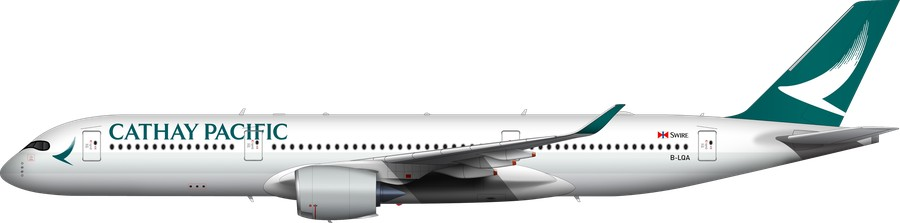
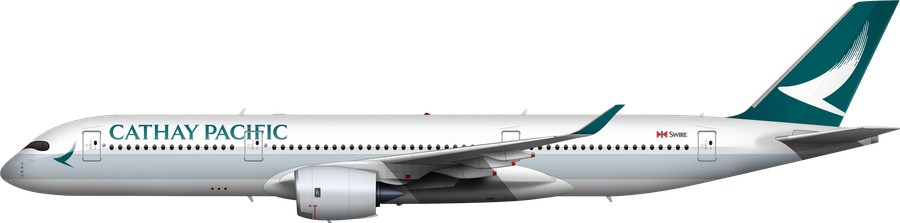
update overview

diff --git a/index.html b/index.html
@@ -103,7 +103,7 @@ button{font-family:inherit}.bar button{border:1px solid #bbb;background:#fff;bor
 <div class="card" data-key="Standard/Cathay Pacific/Cathay Pacific - 777-300ER" data-name="Cathay Pacific 777-300ER" data-png="Liveries Done/Standard/Cathay Pacific/Cathay Pacific - 777-300ER/Cathay Pacific_777-300ER.png" data-base="{&quot;status&quot;: &quot;要處理&quot;, &quot;reason&quot;: &quot;gloss&quot;, &quot;author&quot;: &quot;我們&quot;, &quot;note&quot;: &quot;&quot;}"><img loading="lazy" src="_work/overview_thumbs900/a1d24ef013ee.jpg?v=1794919037"><div class="t">777-300ER</div><span class="b"></span><span class="m r"></span><div class="m a"></div></div>
 <div class="card" data-key="Standard/Cathay Pacific/Cathay Pacific - A330-300" data-name="Cathay Pacific A330-300" data-png="Liveries Done/Standard/Cathay Pacific/Cathay Pacific - A330-300/Cathay Pacific_A330-300.png" data-base="{&quot;status&quot;: &quot;要處理&quot;, &quot;reason&quot;: &quot;gloss&quot;, &quot;author&quot;: &quot;我們&quot;, &quot;note&quot;: &quot;&quot;}"><img loading="lazy" src="_work/overview_thumbs900/b9b2e20d1982.jpg?v=1794919037"><div class="t">A330-300</div><span class="b"></span><span class="m r"></span><div class="m a"></div></div>
 <div class="card" data-key="Standard/Cathay Pacific/Cathay Pacific - A350-1000" data-name="Cathay Pacific A350-1000" data-png="Liveries Done/Standard/Cathay Pacific/Cathay Pacific - A350-1000/Cathay Pacific_A350-1000.png" data-base="{&quot;status&quot;: &quot;要處理&quot;, &quot;reason&quot;: &quot;gloss&quot;, &quot;author&quot;: &quot;我們&quot;, &quot;note&quot;: &quot;&quot;}"><img loading="lazy" src="_work/overview_thumbs900/2898176b7e99.jpg?v=1794919037"><div class="t">A350-1000</div><span class="b"></span><span class="m r"></span><div class="m a"></div></div>
-<div class="card" data-key="Standard/Cathay Pacific/Cathay Pacific - A350-900" data-name="Cathay Pacific A350-900" data-png="Liveries Done/Standard/Cathay Pacific/Cathay Pacific - A350-900/Cathay Pacific_A350-900 (Martin Original).png" data-base="{&quot;status&quot;: &quot;要處理&quot;, &quot;reason&quot;: &quot;gloss&quot;, &quot;author&quot;: &quot;Martin&quot;, &quot;note&quot;: &quot;&quot;}"><img loading="lazy" src="_work/overview_thumbs900/8a0ac4ed2e99.jpg?v=1794734159"><div class="t">A350-900</div><span class="b"></span><span class="m r"></span><div class="m a"></div></div>
+<div class="card" data-key="Standard/Cathay Pacific/Cathay Pacific - A350-900" data-name="Cathay Pacific A350-900" data-png="Liveries Done/Standard/Cathay Pacific/Cathay Pacific - A350-900/Cathay Pacific_A350-900.png" data-base="{&quot;status&quot;: &quot;要處理&quot;, &quot;reason&quot;: &quot;gloss&quot;, &quot;author&quot;: &quot;翻新自 Martin&quot;, &quot;note&quot;: &quot;&quot;}"><img loading="lazy" src="_work/overview_thumbs900/8a0ac4ed2e99.jpg?v=1794919732"><div class="t">A350-900</div><span class="b"></span><span class="m r"></span><div class="m a"></div></div>
 </div></div>
 <div class="air"><h3>Centrum Air<small>1 型<span class="ok"></span></small></h3><div class="grid">
 <div class="card" data-key="Standard/Centrum Air/Centrum Air - A320" data-name="Centrum Air A320" data-png="Liveries Done/Standard/Centrum Air/Centrum Air - A320/Centrum Air_A320 (Martin Original).png" data-base="{&quot;status&quot;: &quot;要處理&quot;, &quot;reason&quot;: &quot;gloss&quot;, &quot;author&quot;: &quot;Martin&quot;, &quot;note&quot;: &quot;&quot;}"><img loading="lazy" src="_work/overview_thumbs900/6bf2545fab8d.jpg?v=1794734159"><div class="t">A320</div><span class="b"></span><span class="m r"></span><div class="m a"></div></div>
